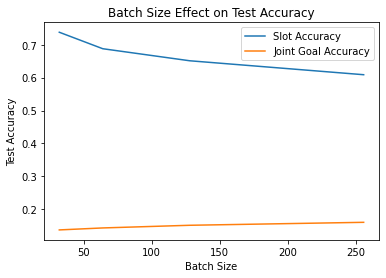
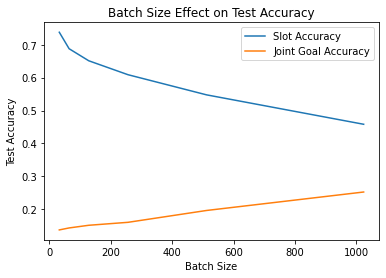
Update plot with results from batch size 512 and 1024

diff --git a/experiments/README.md b/experiments/README.md
@@ -36,7 +36,7 @@ The results on the `test` set are as below:
 3. For `batch_size=128`, `0.6512 slot accuracy` and `0.1512 joint goal accuracy` are obtained.
 4. For `batch_size=256`, `0.6088 slot accuracy` and `0.1602 joint goal accuracy` are obtained.
 5. For `batch_size=512`, `0.5476 slot accuracy` and `0.1962 joint goal accuracy` are obtained.
-6. For `batch_size=1024`, `0.4662 slot accuracy` and `0.2523 joint goal accuracy` are obtained.
+6. For `batch_size=1024`, `0.4582 slot accuracy` and `0.2523 joint goal accuracy` are obtained.
 
 If plotted, the accuracies on the `test` set is as below:
 
